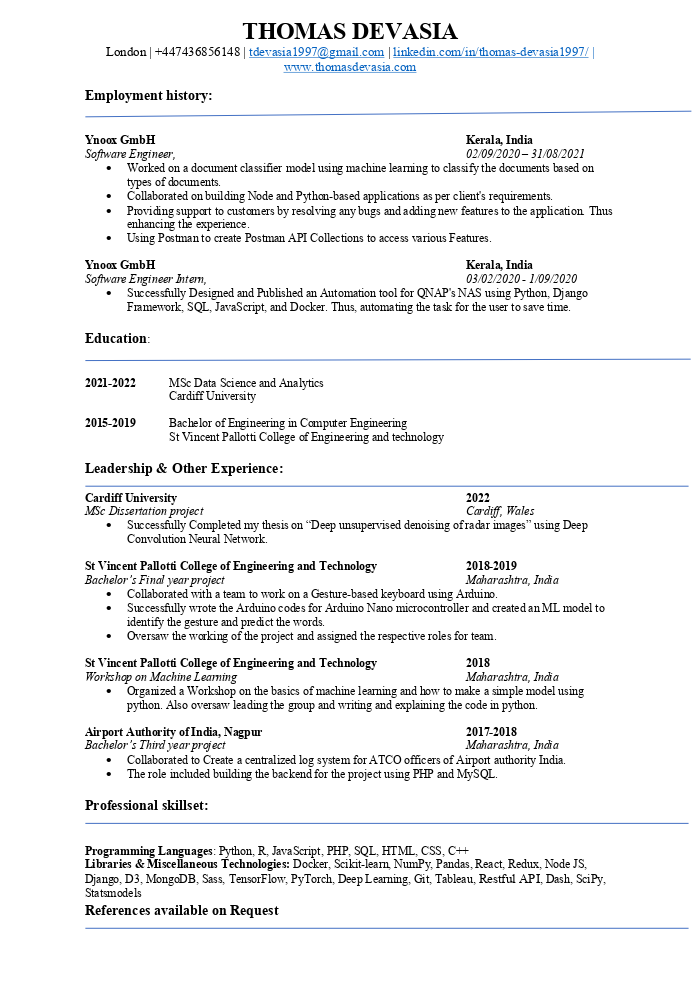
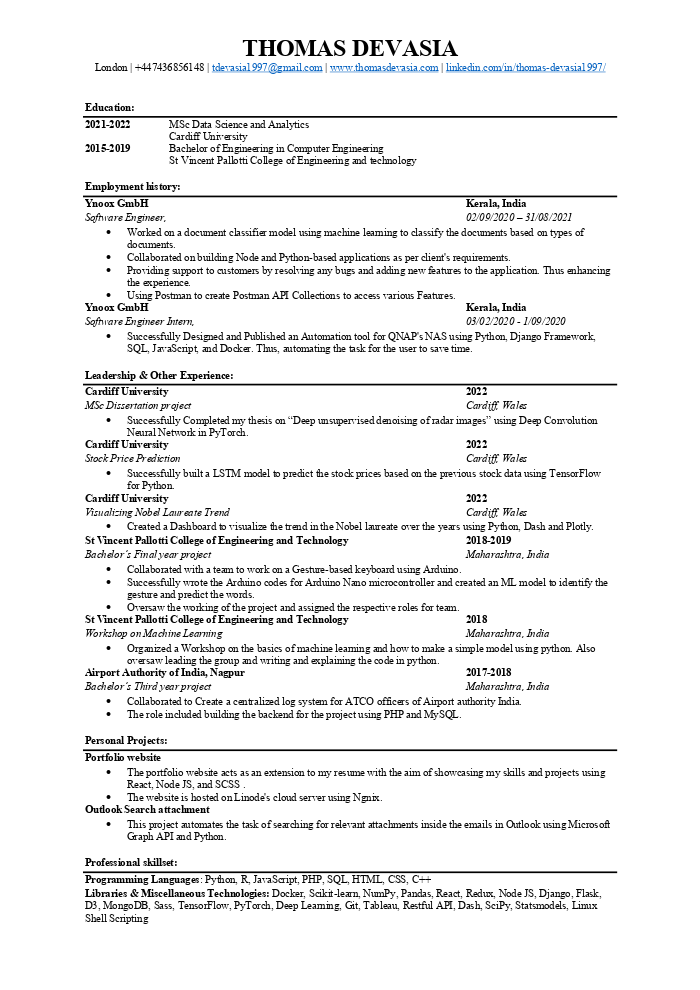
adding new resume image and small edit

Changed region(s): [[0.12, 0.0, 0.87, 0.9394]]

diff --git a/src/components/Projects.jsx b/src/components/Projects.jsx
@@ -22,7 +22,7 @@ const projects = [
     {
         id: 2,
         title: ' Developer Portfolio',
-        info: 'This portfolio website acts as an extension to my resume with the aim of showcasing my skills and projects. The webiste is is hosted on Linode\'s cloud server.',
+        info: 'This portfolio website acts as an extension to my resume with the aim of showcasing my skills and projects. The website is hosted on Linode\'s cloud server.',
         techStack: ['React', 'JavaScript', 'Node.js', 'Sass', 'HTML', 'NGINX'],
         link: 'https://github.com/thomasdevasia/portfolio',
         image: portfolio
